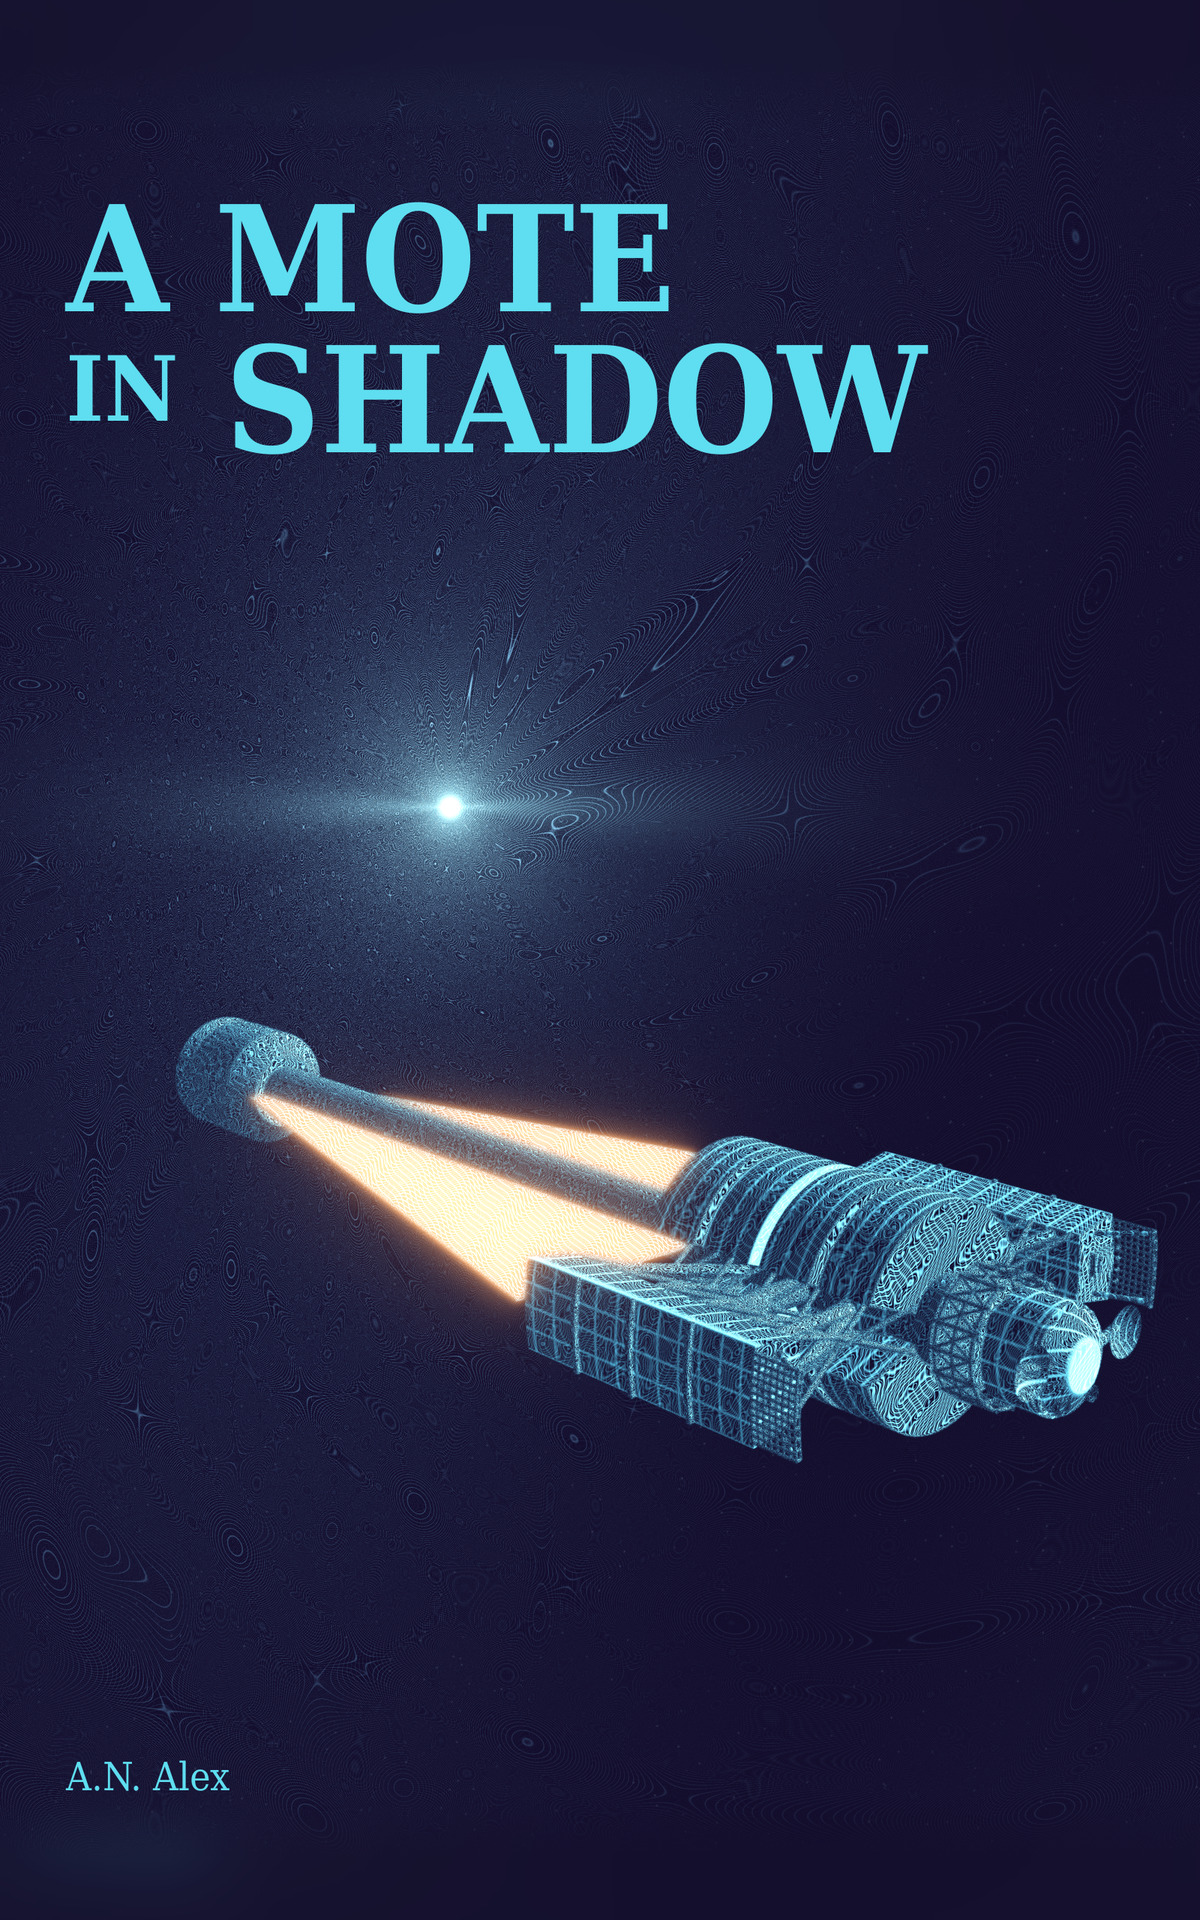
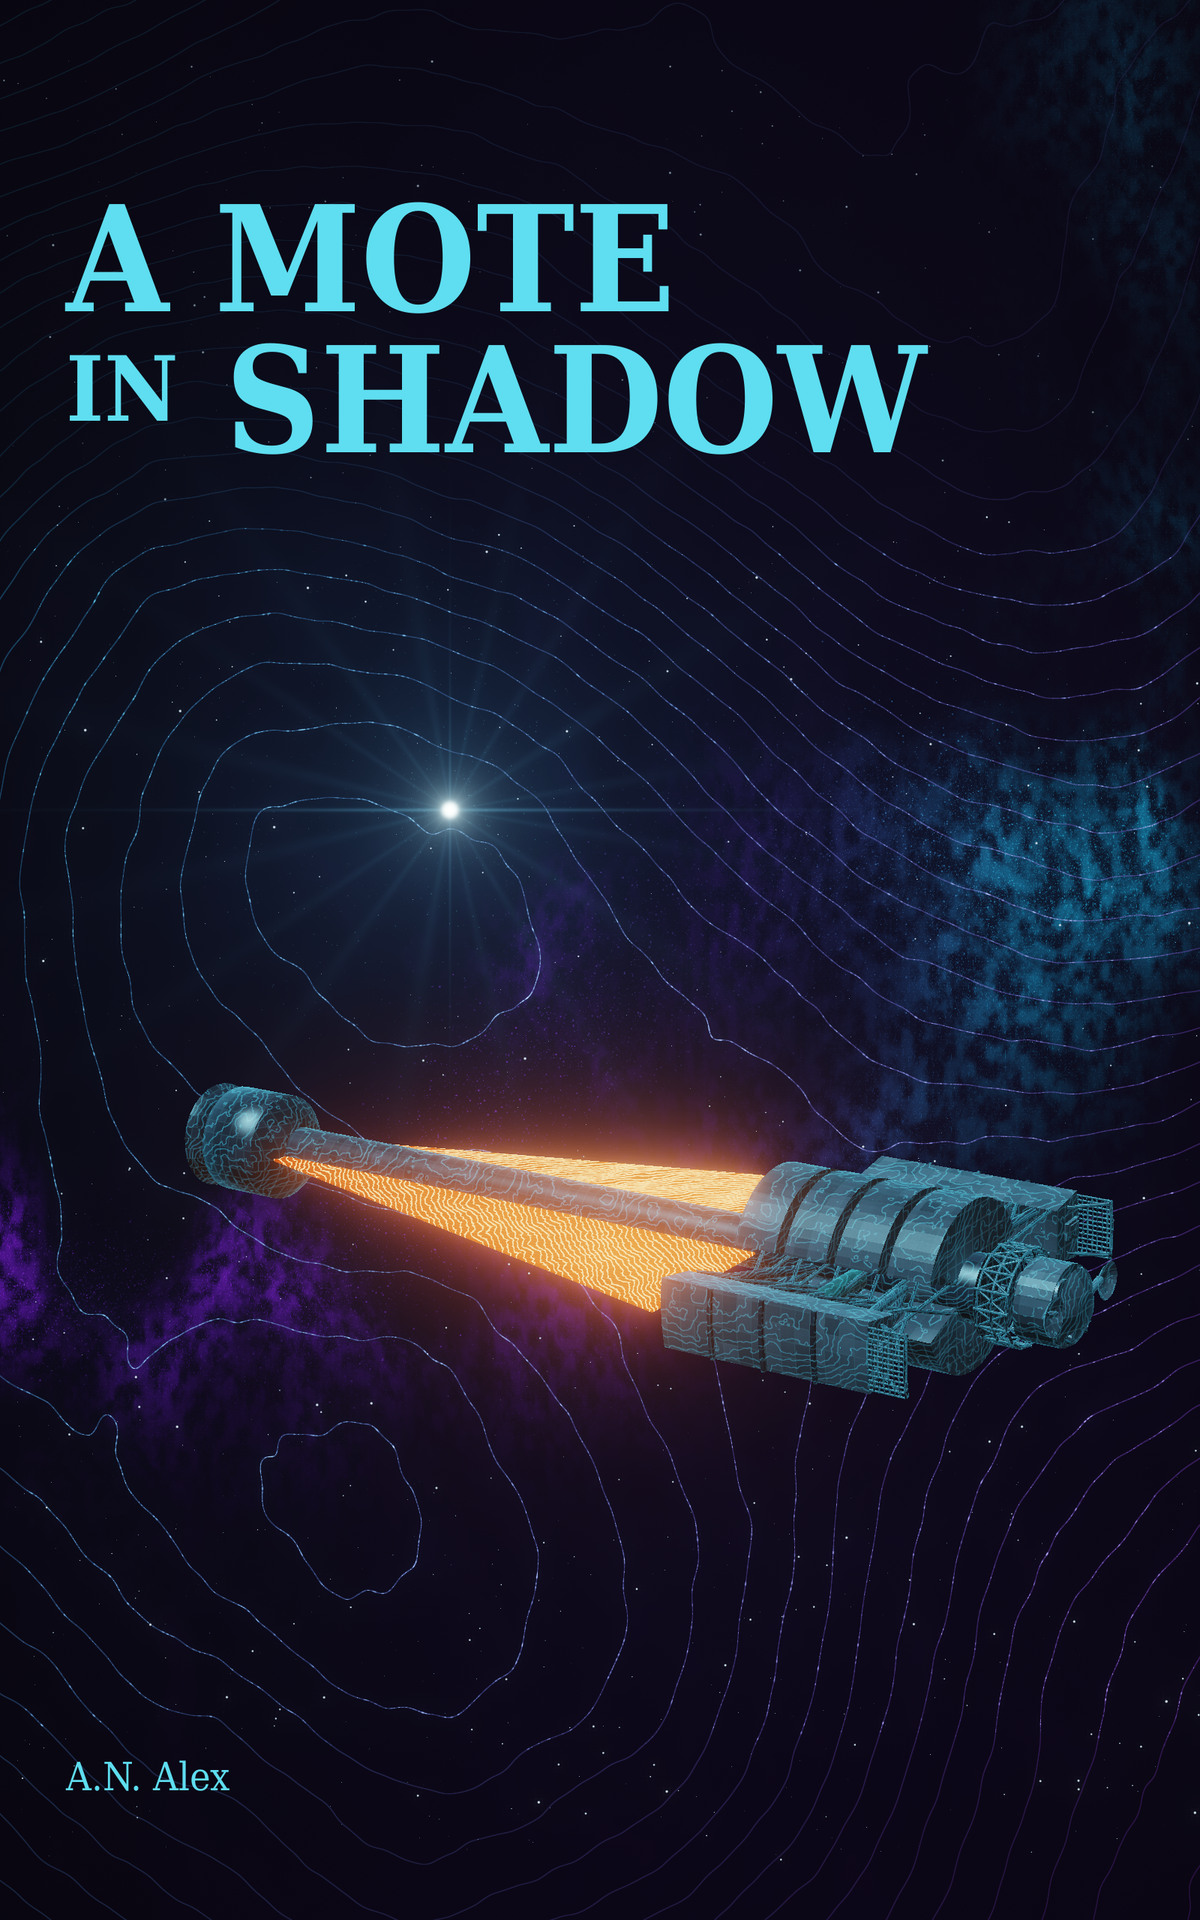
Refresh reader cover and front matter

diff --git a/index.html b/index.html
@@ -16,7 +16,7 @@
   <link rel="preconnect" href="https://fonts.googleapis.com">
   <link rel="preconnect" href="https://fonts.gstatic.com" crossorigin>
   <link href="https://fonts.googleapis.com/css2?family=Inter:wght@400;500;600&family=Orbitron:wght@400;500;700;900&family=Share+Tech+Mono&family=Source+Serif+4:ital,opsz,wght@0,8..60,300;0,8..60,400;0,8..60,600;1,8..60,300;1,8..60,400&family=Space+Mono:ital,wght@0,400;0,700;1,400&display=swap" rel="stylesheet">
-  <link rel="stylesheet" href="css/style.css?v=ed110038a9f5">
+  <link rel="stylesheet" href="css/style.css?v=ef85f9a386a6">
   <script>
     (function () {
       var saved = localStorage.getItem('ams-theme');
@@ -66,11 +66,8 @@
     <div class="contents-scrim" id="contents-scrim" hidden></div>
     <aside class="contents-panel" id="contents-panel" aria-label="Book contents">
       <div class="contents-inner">
-        <a class="cover-mini" href="#top" tabindex="-1" aria-hidden="true">
-          <img src="assets/cover.jpg" alt="" width="120" height="192">
-        </a>
         <div class="contents-heading">
-          <span>// SIGNAL INDEX</span>
+          <span>TABLE OF CONTENTS</span>
           <button class="contents-close" id="contents-close" type="button" aria-label="Close contents">×</button>
         </div>
         <label class="contents-filter">
@@ -140,6 +137,7 @@
 <p>Under the following terms:</p>
 <p class="list-paragraph list-level-0">Attribution — You must give appropriate credit , provide a link to the license, and indicate if changes were made . You may do so in any reasonable manner, but not in any way that suggests the licensor endorses you or your use.</p>
 <p class="list-paragraph list-level-0">No additional restrictions — You may not apply legal terms or technological measures that legally restrict others from doing anything the license permits.</p>
+<hr class="front-matter-divider">
 <p>“<em>Anchuan Shiyong</em>” [Safe Handling]</p>
 <p>A Traditional Martian<em> </em>Benediction</p>
 <p><em>Key coremye te nosu, key portu te prafomu</em><em>.</em></p>
@@ -156,6 +154,7 @@
 <p><strong>[E</strong><strong>ternally vigilant, we will be safe.]</strong></p>
 <p><em>Na all gah til andyanleyu kes fo bin tak.</em></p>
 <p><strong>[</strong><strong>Till abyssal current</strong><strong>s have</strong><strong> </strong><strong>their</strong><strong> claim.</strong><strong>]</strong></p>
+<hr class="front-matter-divider">
 </section>
 <section class="part-divider" id="book-one-ergo-infinitum" data-nav-title="Book One:Ergo Infinitum"><div class="part-grid" aria-hidden="true"></div><span class="section-signal">// CHANNEL DIVISION</span><h2>Book One:Ergo Infinitum</h2></section>
 <section class="chapter-section transmission-section" id="chapter-one" data-nav-title="Chapter One"><div class="section-signal">// STORY TRANSMISSION</div><h2>Chapter One</h2>
@@ -4835,6 +4834,6 @@
   <noscript>
     <div class="noscript-notice">JavaScript is optional for reading, but is required for the generated contents and translation animations.</div>
   </noscript>
-  <script src="js/main.js?v=ed110038a9f5" defer></script>
+  <script src="js/main.js?v=ef85f9a386a6" defer></script>
 </body>
 </html>

diff --git a/css/style.css b/css/style.css
@@ -386,20 +386,9 @@ img { display: block; max-width: 100%; }
 
 .contents-inner {
   display: grid;
-  grid-template-rows: auto auto auto minmax(5rem, 1fr) auto auto;
+  grid-template-rows: auto auto minmax(5rem, 1fr) auto auto;
   height: 100%;
 }
-
-.cover-mini {
-  display: grid;
-  place-items: center;
-  height: 7rem;
-  overflow: hidden;
-  border-bottom: 1px solid var(--line);
-  background: linear-gradient(135deg, color-mix(in srgb, var(--purple) 18%, transparent), transparent);
-}
-
-.cover-mini img { width: 4.2rem; box-shadow: 0 8px 25px rgba(0, 0, 0, 0.4); }
 
 .contents-heading {
   display: flex;
@@ -444,6 +433,14 @@ img { display: block; max-width: 100%; }
 }
 
 .contents-filter input::placeholder { color: var(--ink-faint); opacity: 0.8; }
+
+.front-matter-divider {
+  width: min(12rem, 45%);
+  height: 1px;
+  margin: 3rem auto;
+  border: 0;
+  background: linear-gradient(90deg, transparent, var(--purple), var(--cyan), transparent);
+}
 
 #generated-contents {
   overflow: auto;

diff --git a/js/main.js b/js/main.js
@@ -61,6 +61,7 @@
   contentsScrim.addEventListener('click', () => setContents(false));
 
   const navigableSections = Array.from(document.querySelectorAll('#book > section[data-nav-title]'));
+  const contentsSections = navigableSections.filter((section) => section.id !== 'top');
 
   function sectionKind(section) {
     if (section.classList.contains('part-divider')) return 'part';
@@ -72,7 +73,7 @@
 
   function buildContents() {
     const fragment = document.createDocumentFragment();
-    navigableSections.forEach((section, index) => {
+    contentsSections.forEach((section, index) => {
       const link = document.createElement('a');
       const code = document.createElement('span');
       const title = document.createElement('span');

diff --git a/templates/index.html b/templates/index.html
@@ -66,11 +66,8 @@
     <div class="contents-scrim" id="contents-scrim" hidden></div>
     <aside class="contents-panel" id="contents-panel" aria-label="Book contents">
       <div class="contents-inner">
-        <a class="cover-mini" href="#top" tabindex="-1" aria-hidden="true">
-          <img src="assets/cover.jpg" alt="" width="120" height="192">
-        </a>
         <div class="contents-heading">
-          <span>// SIGNAL INDEX</span>
+          <span>TABLE OF CONTENTS</span>
           <button class="contents-close" id="contents-close" type="button" aria-label="Close contents">×</button>
         </div>
         <label class="contents-filter">

diff --git a/tests/test_reader.py b/tests/test_reader.py
@@ -6,6 +6,8 @@ import unittest
 from html.parser import HTMLParser
 from pathlib import Path
 
+from PIL import Image
+
 
 REPO = Path(__file__).resolve().parents[1]
 
@@ -207,6 +209,38 @@ class ReaderTests(unittest.TestCase):
         self.assertIn("https://a.co/d/d4eV40z", self.page)
         self.assertIn("https://lastnpcalex.gumroad.com/l/AMoteInShadow", self.page)
         self.assertIn("https://lastnpcalex.agency/ams", self.page)
+
+    def test_front_matter_dividers(self) -> None:
+        front_matter = re.search(
+            r'<section class="front-matter transmission-section"(?P<body>.*?)</section>',
+            self.page,
+            re.DOTALL,
+        )
+        self.assertIsNotNone(front_matter)
+        body = front_matter.group("body")
+        self.assertEqual(body.count('<hr class="front-matter-divider">'), 2)
+        copyright_rule = body.index("No additional restrictions")
+        poem_title = body.index("Safe Handling")
+        first_rule = body.index('<hr class="front-matter-divider">')
+        final_line = body.index("abyssal current")
+        second_rule = body.rindex('<hr class="front-matter-divider">')
+        self.assertLess(copyright_rule, first_rule)
+        self.assertLess(first_rule, poem_title)
+        self.assertLess(final_line, second_rule)
+
+    def test_contents_panel_omits_cover(self) -> None:
+        script = (REPO / "js" / "main.js").read_text(encoding="utf-8")
+        self.assertIn("TABLE OF CONTENTS", self.page)
+        self.assertNotIn("SIGNAL INDEX", self.page)
+        self.assertNotIn("cover-mini", self.page)
+        self.assertIn("contentsSections = navigableSections.filter", script)
+        self.assertIn("contentsSections.forEach", script)
+
+    def test_book_and_social_covers_use_web_export_dimensions(self) -> None:
+        with Image.open(REPO / "assets" / "cover.jpg") as cover:
+            self.assertEqual(cover.size, (1200, 1920))
+        with Image.open(REPO / "assets" / "social-cover.jpg") as social_cover:
+            self.assertEqual(social_cover.size, (1200, 630))
 
     def test_infinite_scroll_has_no_pagers_or_link_arrows(self) -> None:
         self.assertNotIn("section-pager", self.page)

diff --git a/scripts/build_reader.py b/scripts/build_reader.py
@@ -520,6 +520,11 @@ def render_manuscript(
                 classes.append("scene-stamp")
         class_attribute = f' class="{" ".join(classes)}"' if classes else ""
         output.append(f"<p{class_attribute}>{paragraph_markup}</p>")
+        if current_kind == "front" and (
+            text.startswith("No additional restrictions")
+            or text == "[Till abyssal currents have their claim.]"
+        ):
+            output.append('<hr class="front-matter-divider">')
         previous_blank = False
 
     if section_open:
@@ -624,12 +629,12 @@ def parse_args() -> argparse.Namespace:
     )
     parser.add_argument(
         "--cover",
-        default=workspace / "KDP" / "AMS" / "web_1200x1920_72dpi.jpg",
+        default=workspace / "KDP" / "AMS_render_suite_r2" / "AMS" / "online" / "cover_1200x1920.jpg",
         help="Path to the web cover image.",
     )
     parser.add_argument(
         "--social-cover",
-        default=workspace / "KDP" / "AMS" / "social_og_1200x630_72dpi.jpg",
+        default=workspace / "KDP" / "AMS_render_suite_r2" / "AMS" / "online" / "social_landscape_1200x630.jpg",
         help="Path to the social preview image.",
     )
     return parser.parse_args()
